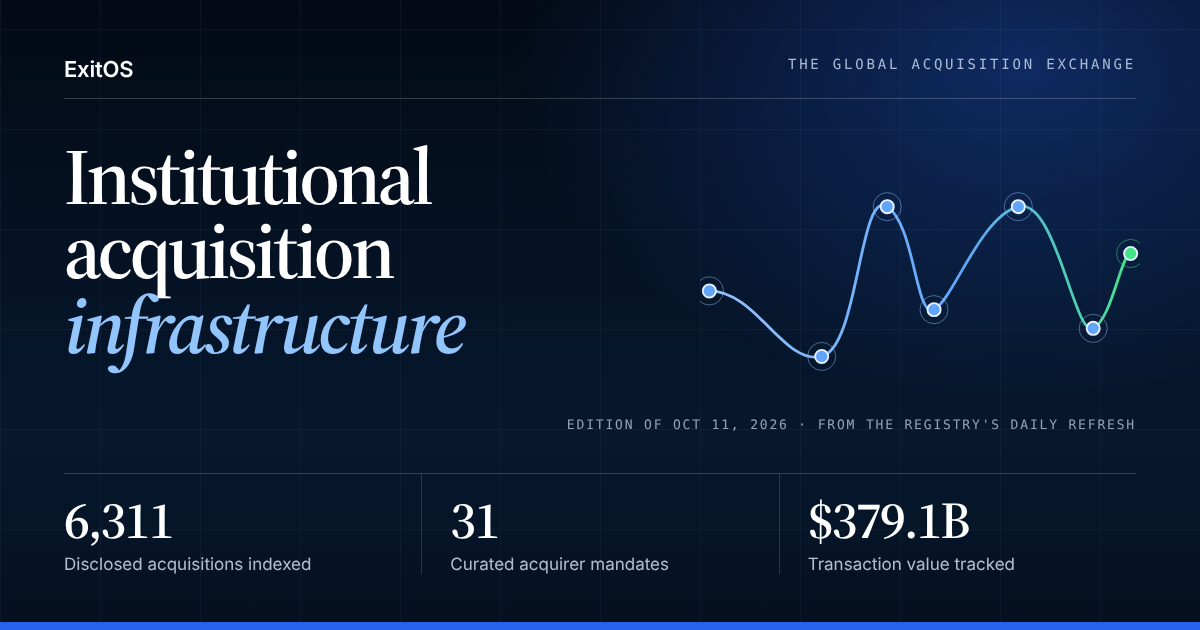
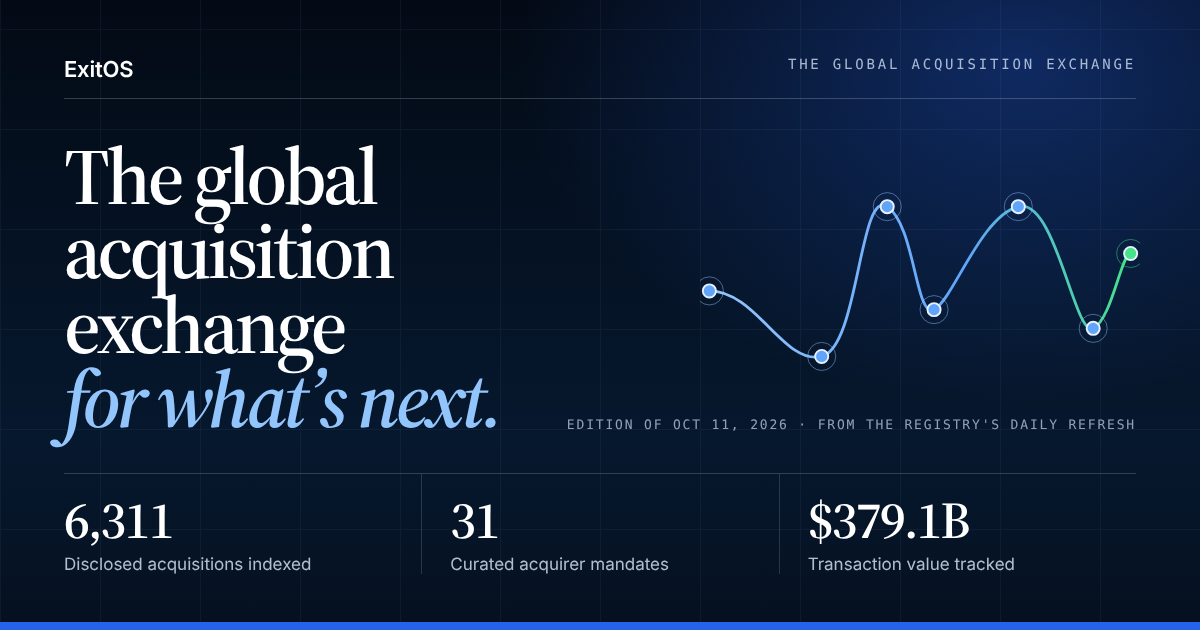
Homepage DD2: the index(2) hero and section 2, with our lifecycle graph in its box
Claude-Session: https://claude.ai/code/session_01VxxzepaXTwk9V2M77YMMLq

Changed region(s): [[0.0308, 0.4524, 0.4317, 0.7238], [0.0308, 0.2111, 0.37, 0.3619]]

diff --git a/services/exit-web/src/pages/Landing.tsx b/services/exit-web/src/pages/Landing.tsx
@@ -38,10 +38,6 @@ const WRAP = "mx-auto w-full max-w-[1480px] px-5 sm:px-8 lg:px-12";
 const H2 = "font-editorial text-[clamp(2.25rem,4.6vw,4.25rem)] font-semibold leading-[1.02] tracking-[-0.035em]";
 const BTN = "inline-flex items-center gap-5 px-5 py-3.5 text-[12px] font-semibold transition";
 
-// The hero headline in the editorial serif: an all-caps i18n string reads in
-// sentence case on offset lines, the last line in the accent italic.
-const heroLines = (s: string): string[] =>
-  s.split("\n").map((l, i) => (l === l.toUpperCase() ? (i === 0 ? l.charAt(0) + l.slice(1).toLowerCase() : l.toLowerCase()) : l));
 
 /** Chapter arrivals: each chapter's headline rises into place the first time it
  *  enters the view. Chapters already in view on load are shown at once; nothing
@@ -62,58 +58,89 @@ const Landing: React.FC = () => {
   useChapterReveal();
   const nav = useNavigate();
   const { t } = useI18n();
-  const h1 = heroLines(t("hero.h1"));
   return (
     <MarketingChrome active="home">
       <ChapterRail />
       <PhoneActionBar />
       <div className="relative">
         <SignatureLine />
-      {/* ===== 01 · HERO — the deal atlas (Z1/Z2, after the owner's index(8).html, on the homepage spec) ===== */}
-      <section id="ch-01" className="text-white" style={{ background: "linear-gradient(180deg,#030a15 0%,#06182E 70%,#05101f 100%)" }}>
-        <div className={`${WRAP} pt-8`}>
-          <div className="flex justify-between gap-6 border-b border-white/20 pb-3 font-mono text-[10px] uppercase tracking-[0.16em] text-blue-100/75">
-            <span>{t("hero.eyebrow")}</span><span className="flex items-center justify-end gap-2 text-right"><span aria-hidden className="h-1.5 w-1.5 shrink-0 rounded-full bg-emerald-400" />{t("hero.fresh", { d: MARKET_INDEX_FMT.asOf })}</span>
-          </div>
-          <div className="grid items-end gap-10 py-12 sm:py-14 lg:grid-cols-[minmax(0,1.4fr)_minmax(270px,0.6fr)] lg:gap-[6%] lg:py-16">
-            <h1 className="max-w-[12ch] font-editorial text-[clamp(3.4rem,8.4vw,8.8rem)] font-semibold leading-[0.9] tracking-[-0.05em]">
-              {h1.map((l, i) => i === h1.length - 1
-                ? <em key={i} className="block italic text-blue-300">{l}</em>
-                : <span key={i}>{l} </span>)}
+      {/* ===== 01 · HERO — after the owner's index(2).html (DD2), in the locked palette ===== */}
+      <section id="ch-01" className="relative isolate flex min-h-[min(880px,calc(100vh-72px))] flex-col overflow-hidden">
+        {/* the field: ivory on the left, deep navy on the right (stacked on phones) */}
+        <div aria-hidden className="absolute inset-0" style={{ background: "radial-gradient(ellipse 50% 70% at 82% 40%, rgba(37,99,235,0.22), transparent 70%), linear-gradient(180deg,#06182E 0%,#041120 70%,#030a15 100%)" }} />
+        <div aria-hidden className="absolute inset-0 hidden md:block" style={{ background: "linear-gradient(90deg, rgba(246,248,251,0.98) 0%, rgba(246,248,251,0.94) 28%, rgba(246,248,251,0.38) 45%, rgba(3,17,27,0.08) 61%, rgba(3,17,27,0.32) 100%)" }} />
+        <div aria-hidden className="absolute inset-0 md:hidden" style={{ background: "linear-gradient(180deg, rgba(246,248,251,0.99) 0%, rgba(246,248,251,0.96) 70%, rgba(246,248,251,0) 100%)" }} />
+        <div aria-hidden className="absolute inset-0" style={{ background: "linear-gradient(0deg, rgba(3,15,23,0.62), transparent 20%, transparent 75%, rgba(2,12,19,0.12))" }} />
+
+        <div className={`${WRAP} relative flex flex-1 items-center py-16 lg:py-20`}>
+          <div className="max-w-[640px] text-ink-900">
+            <div className="flex items-center gap-3 text-[10px] font-semibold uppercase tracking-[0.3em]"><span aria-hidden className="h-px w-7 bg-blue-600" />{t("hx.eyebrow")}</div>
+            <h1 className="mt-7 font-editorial text-[clamp(3.1rem,5.6vw,5.5rem)] font-semibold leading-[0.99] tracking-[-0.045em]">
+              {t("hx.h1")} <em className="italic text-blue-600">{t("hx.h1em")}</em>
             </h1>
-            <div className="max-w-[420px] border-l border-blue-300/60 pl-6">
-              <p className="font-editorial text-[20px] leading-snug text-blue-50/90">{t("hero.sub")}</p>
-              <p className="mt-3 text-[14.5px] leading-relaxed text-blue-100/75">{t("hero.body")}</p>
-              <div className="mt-7 flex flex-wrap gap-2.5">
-                <button onClick={() => nav("/console")} className={`${BTN} bg-white text-ink-900 hover:bg-blue-50`}>{t("nav.access")} <Arrow /></button>
-                <button onClick={() => nav("/pricing")} className={`${BTN} border border-white/60 text-white hover:bg-white hover:text-ink-900`}>{t("hero.deploy")} <span aria-hidden>↗</span></button>
-              </div>
+            <p className="mt-6 max-w-[440px] text-[15px] leading-[1.85] text-slate-700">{t("hx.body")}</p>
+            <div className="mt-8 flex flex-wrap gap-2.5">
+              <button onClick={() => nav("/platform")} className={`${BTN} bg-ink-900 text-white hover:bg-blue-700`}>{t("hx.explore")} <Arrow /></button>
+              <a href="#ch-04" className={`${BTN} border border-ink-900/70 text-ink-900 hover:bg-ink-900 hover:text-white md:border-ink-900/40 md:bg-white/30 md:backdrop-blur-sm`}>{t("bar.value")} <span aria-hidden>↓</span></a>
             </div>
           </div>
-          {/* 01 / discover the field — the sale process as a route across the market */}
-          <ExchangeMap dark interactive />
-          {/* the proof figures, as the homepage has always set them: serif numerals, a label, the source note */}
-          <div className="grid grid-cols-3">
-            {[
-              [MARKET_INDEX_FMT.events, t("ribbon.deals")],
-              [MARKET_FMT.buyers, t("ribbon.mandates")],
-              [HISTORY_FMT.disclosedValue, t("ribbon.value")],
-            ].map(([v, l], i) => (
-              <div key={l} className={`relative py-7 pr-3 ${i ? "border-l border-white/15 pl-3 sm:pl-6" : ""}`}>
-                <span aria-hidden className={`hero-rule absolute top-0 h-[2px] bg-blue-400 ${i ? "left-3 right-3 sm:left-6" : "left-0 right-3"}`} style={{ animationDelay: `${0.2 + i * 0.15}s` }} />
-                <div className="font-editorial text-[clamp(2.1rem,4.4vw,4rem)] font-semibold leading-none tracking-[-0.03em]"><CountUp value={v} /></div>
-                <div className="mt-2.5 text-[13px] text-blue-100/80">{l}<Note n={([1, 2, 3] as SourceId[])[i]} first dark /></div>
-              </div>
-            ))}
+        </div>
+        {/* the vertical note on the navy side */}
+        <div aria-hidden className="absolute bottom-40 right-[3.5%] hidden flex-col items-center gap-4 lg:flex">
+          <span className="font-mono text-[9.5px] uppercase tracking-[0.24em] text-blue-100/80" style={{ writingMode: "vertical-rl", transform: "rotate(180deg)" }}>{t("hx.note")}</span>
+          <span className="h-11 w-px bg-blue-300" />
+        </div>
+
+        {/* the capability strip */}
+        <ul aria-label={t("hx.strip")} className="relative grid border-t border-blue-600/70 bg-[#030a15]/95 text-white sm:grid-cols-2 lg:grid-cols-5">
+          {([["◎", 1], ["♧", 2], ["↗", 3], ["▤", 4], ["⌁", 5]] as const).map(([icon, k], i) => (
+            <li key={k} className={`flex gap-4 px-5 py-6 sm:px-8 lg:px-6 ${i ? "border-t border-white/10 sm:border-t-0 lg:border-l" : ""} ${i % 2 ? "sm:border-l" : ""} sm:border-white/10 lg:first:pl-[max(1.5rem,calc((100vw-1480px)/2+3rem))]`}>
+              <span aria-hidden className="font-editorial text-[26px] leading-none text-blue-300">{icon}</span>
+              <span>
+                <span className="block font-editorial text-[17px] font-semibold">{t(`hx.s${k}`)}</span>
+                <span className="mt-1.5 block max-w-[200px] text-[12px] leading-relaxed text-blue-100/75">{t(`hx.s${k}d`)}</span>
+              </span>
+            </li>
+          ))}
+        </ul>
+      </section>
+
+      {/* ===== 02 · INTELLIGENCE MEETS OPPORTUNITY — index(2) section 2, with our lifecycle graph in its box (DD2) ===== */}
+      <section id="ch-02" aria-labelledby="s2-h" className="border-b border-slate-200 bg-[#f6f8fb] text-ink-900">
+        <div className={`${WRAP} grid items-center gap-12 py-20 sm:py-24 lg:grid-cols-[0.85fr_1.15fr] lg:gap-[clamp(40px,5vw,84px)] lg:py-28`}>
+          <div>
+            <Chapter n="02">{t("s2.kicker")}</Chapter>
+            <h2 id="s2-h" className="rv-h mt-6 font-editorial text-[clamp(2.6rem,4.2vw,4rem)] font-semibold leading-[1.04] tracking-[-0.035em]">{t("s2.h2")} <em className="italic text-blue-600">{t("s2.h2em")}</em></h2>
+            <p className="mt-6 max-w-[460px] text-[15px] leading-[1.85] text-slate-600">{t("s2.body")}</p>
+            {/* the proof figures, with their notes */}
+            <div className="mt-9 grid grid-cols-3 border-t border-ink-900">
+              {[
+                [MARKET_INDEX_FMT.events, t("ribbon.deals")],
+                [MARKET_FMT.buyers, t("ribbon.mandates")],
+                [HISTORY_FMT.disclosedValue, t("ribbon.value")],
+              ].map(([v, l], i) => (
+                <div key={l} className={`relative pr-3 pt-5 ${i ? "border-l border-slate-300 pl-3 sm:pl-5" : ""}`}>
+                  <span aria-hidden className={`hero-rule absolute -top-px h-[2px] bg-blue-600 ${i ? "left-3 right-3 sm:left-5" : "left-0 right-3"}`} style={{ animationDelay: `${0.2 + i * 0.15}s` }} />
+                  <div className="font-editorial text-[clamp(1.7rem,2.6vw,2.5rem)] font-semibold leading-none tracking-[-0.03em]"><CountUp value={v} /></div>
+                  <div className="mt-2 text-[12.5px] text-slate-600">{l}<Note n={([1, 2, 3] as SourceId[])[i]} first /></div>
+                </div>
+              ))}
+            </div>
+            <p data-edition className="mt-5 flex items-center gap-2 font-mono text-[10px] uppercase tracking-[0.14em] text-slate-600"><span aria-hidden className="h-1.5 w-1.5 shrink-0 rounded-full bg-emerald-500" />{t("hero.fresh", { d: MARKET_INDEX_FMT.asOf })}</p>
+            <Link to="/platform" className="mt-8 inline-flex items-center gap-3 border-b border-blue-600 pb-2.5 text-[13px] font-semibold text-ink-900 transition hover:text-blue-700 focus-visible:outline-none focus-visible:ring-2 focus-visible:ring-blue-600">{t("s2.link")} <span aria-hidden>→</span></Link>
+          </div>
+          {/* the right-hand box: the sale process, stage by stage */}
+          <div className="min-w-0 shadow-[0_40px_80px_-40px_rgba(6,24,46,0.6)]">
+            <ExchangeMap dark interactive compact />
           </div>
         </div>
       </section>
 
-      {/* ===== 02 · THE EXCHANGE — the screen installed in the trading hall ===== */}
-      <section id="ch-02" aria-labelledby="hall-h">
+      {/* ===== 03 · THE EXCHANGE — the board as the instrument ===== */}
+      <section id="ch-03" aria-labelledby="hall-h">
         <Instrument head={
           <div className={`${WRAP} relative pb-16 pt-20 text-white`}>
-            <Chapter n="02" dark>{t("hall.eyebrow")}</Chapter>
+            <Chapter n="03" dark>{t("hall.eyebrow")}</Chapter>
             <h2 id="hall-h" className="rv-h mt-5 max-w-[18ch] font-editorial text-[clamp(2.6rem,5vw,5rem)] font-semibold leading-[0.95] tracking-[-0.04em]">{t("hall.h2")} <em className="italic text-blue-300">{t("hall.h2em")}</em></h2>
           </div>
         }>
@@ -157,13 +184,13 @@ const Landing: React.FC = () => {
         `}</style>
       </section>
 
-      {/* ===== 03 · VALUE YOUR COMPANY — the working product moment ===== */}
-      <QuickValue />
+      {/* ===== 04 · VALUE YOUR COMPANY — the working product moment ===== */}
+      <QuickValue n="04" />
 
-      {/* ===== 04 · THE THESIS — one statement, set like a front page ===== */}
-      <section id="ch-04" className="border-b border-slate-200 bg-[#f6f8fb]">
+      {/* ===== 05 · THE THESIS — one statement, set like a front page ===== */}
+      <section id="ch-05" className="border-b border-slate-200 bg-[#f6f8fb]">
         <div className={`${WRAP} py-16 sm:py-20 lg:py-24`}>
-          <Chapter n="04">{t("loss.eyebrow")}</Chapter>
+          <Chapter n="05">{t("loss.eyebrow")}</Chapter>
           <h2 className="rv-h mt-6 max-w-[16ch] font-editorial text-[clamp(3rem,7.4vw,7.6rem)] font-semibold leading-[0.92] tracking-[-0.05em] text-ink-900"><Editorial text={t("loss.h2")} /></h2>
           <div className="mt-12 grid gap-10 border-t-4 border-double border-ink-900 pt-8 lg:grid-cols-[minmax(0,0.9fr)_minmax(0,1.6fr)] lg:gap-[5vw]">
             <p className="max-w-md text-[16px] leading-relaxed text-ink-800 first-letter:float-left first-letter:mr-2 first-letter:mt-1 first-letter:font-editorial first-letter:text-[4.2rem] first-letter:font-semibold first-letter:leading-[0.8] first-letter:text-blue-700">{t("loss.body", { p: DEAL_INTEL_FMT.medianPremium, d: DEAL_INTEL_FMT.medianClose })}<Note n={4} first /></p>
@@ -192,11 +219,11 @@ const Landing: React.FC = () => {
         </div>
       </section>
 
-      {/* ===== 05 · THE TRANSACTION RECORD — the ledger ===== */}
-      <section id="ch-05" className="border-b border-slate-200 bg-white">
+      {/* ===== 06 · THE TRANSACTION RECORD — the ledger ===== */}
+      <section id="ch-06" className="border-b border-slate-200 bg-white">
         <div className={`${WRAP} py-14 sm:py-20 lg:py-24`}>
           <div>
-            <Chapter n="05">{t("rec.eyebrow")}</Chapter>
+            <Chapter n="06">{t("rec.eyebrow")}</Chapter>
             <div className="mt-6 flex flex-wrap items-end justify-between gap-6">
               <h2 className={`rv-h ${H2} max-w-[20ch] text-ink-900`}><Editorial text={t("rec.h2")} /></h2>
               <p className="max-w-xs text-[13px] leading-relaxed text-slate-600">{t("rec.body")}</p>
@@ -271,11 +298,11 @@ const Landing: React.FC = () => {
         </div>
       </section>
 
-      {/* ===== 06 · THE MODULES — the site's own catalogue, live engine stats (Z3) ===== */}
-      <section id="ch-06" aria-labelledby="mods-h" className="border-b border-slate-200 bg-white text-ink-900">
+      {/* ===== 07 · THE MODULES — the site's own catalogue, live engine stats (Z3) ===== */}
+      <section id="ch-07" aria-labelledby="mods-h" className="border-b border-slate-200 bg-white text-ink-900">
         <div className={`${WRAP} py-16 sm:py-20 lg:py-24`}>
           <div className="border-t-4 border-double border-ink-900 pt-8">
-            <Chapter n="06">{t("mods.eyebrow")}</Chapter>
+            <Chapter n="07">{t("mods.eyebrow")}</Chapter>
             <h2 id="mods-h" className="rv-h mt-6 max-w-[22ch] font-editorial text-[clamp(2.75rem,5.8vw,5.6rem)] font-semibold leading-[0.94] tracking-[-0.045em]"><Editorial text={t("mods.h2")} /></h2>
           </div>
           <div className="mt-12 border-t border-ink-900">
@@ -303,12 +330,12 @@ const Landing: React.FC = () => {
       {/* real client proof — renders nothing until lib/proof.ts holds entries (CC4, gate G2) */}
       <ProofSection />
 
-      {/* ===== 07 · QUESTIONS — what founders ask first, answered from the Pricing and Platform pages ===== */}
-      <section id="ch-07" aria-labelledby="faq-h" className="border-b border-slate-200 bg-[#f6f8fb] text-ink-900">
+      {/* ===== 08 · QUESTIONS — what founders ask first, answered from the Pricing and Platform pages ===== */}
+      <section id="ch-08" aria-labelledby="faq-h" className="border-b border-slate-200 bg-[#f6f8fb] text-ink-900">
         <div className={`${WRAP} py-16 sm:py-20 lg:py-24`}>
           <div className="grid gap-10 lg:grid-cols-[0.8fr_1.2fr] lg:gap-[6vw]">
             <div className="border-t-4 border-double border-ink-900 pt-8">
-              <Chapter n="07">{t("faq.eyebrow")}</Chapter>
+              <Chapter n="08">{t("faq.eyebrow")}</Chapter>
               <h2 id="faq-h" className="rv-h mt-6 font-editorial text-[clamp(2.75rem,5.2vw,5rem)] font-semibold leading-[0.94] tracking-[-0.045em]"><Editorial text={t("faq.h2")} /></h2>
               <div className="mt-10 rounded-[4px] p-6 text-white" style={{ background: "linear-gradient(135deg,#06182E 0%,#0A1F3A 60%,#0B2547 100%)" }}>
                 <p className="font-editorial text-[1.35rem] font-semibold leading-snug">{t("faq.more")}</p>
@@ -331,8 +358,8 @@ const Landing: React.FC = () => {
         </div>
       </section>
 
-      {/* ===== 08 · THE NEXT MOVE — the back page ===== */}
-      <section id="ch-08" className="relative overflow-hidden text-white" style={{ background: "linear-gradient(180deg,#05101f 0%,#06182E 55%,#030a15 100%)" }}>
+      {/* ===== 09 · THE NEXT MOVE — the back page ===== */}
+      <section id="ch-09" className="relative overflow-hidden text-white" style={{ background: "linear-gradient(180deg,#05101f 0%,#06182E 55%,#030a15 100%)" }}>
         {/* a quiet film of a meeting under a navy veil (placeholder footage, pre-launch gate G1) */}
         <AmbientVideo src="/media/boardroom-loop.mp4" webm="/media/boardroom-loop.webm" poster="/media/boardroom-poster.jpg" className="pointer-events-none absolute inset-0 h-full w-full object-cover opacity-[0.38] mix-blend-luminosity" />
         <div aria-hidden className="pointer-events-none absolute inset-0" style={{ background: "linear-gradient(180deg,#05101f 0%,rgba(6,24,46,0.62) 28%,rgba(6,24,46,0.72) 62%,#030a15 100%), linear-gradient(90deg,rgba(3,10,21,0.85) 0%,rgba(3,10,21,0.35) 55%,rgba(3,10,21,0.6) 100%)" }} />
@@ -340,7 +367,7 @@ const Landing: React.FC = () => {
         <div aria-hidden className="pointer-events-none absolute left-1/2 top-0 h-[70%] w-[80%] -translate-x-1/2 rounded-[50%] opacity-40 blur-[110px]" style={{ background: "radial-gradient(ellipse at center, rgba(56,130,246,0.55), transparent 70%)" }} />
         <div className={`${WRAP} relative py-20 sm:py-24 lg:py-32`}>
           <div className="border-t-4 border-double border-white/50 pt-8">
-            <Chapter n="08" dark>{t("cta.eyebrow")}</Chapter>
+            <Chapter n="09" dark>{t("cta.eyebrow")}</Chapter>
             <div className="mt-6 grid items-end gap-10 lg:grid-cols-[1fr_auto]">
               <h2 className="rv-h font-editorial text-[clamp(3rem,7vw,7rem)] font-semibold leading-[0.94] tracking-[-0.05em] text-white"><Editorial text={t("cta.h2")} dark /></h2>
               <div className="flex flex-wrap gap-2.5 lg:flex-col lg:items-stretch">

diff --git a/services/exit-web/src/lib/i18n.tsx b/services/exit-web/src/lib/i18n.tsx
@@ -129,6 +129,28 @@ const en: Dict = {
   "hall.eyebrow": "The exchange",
   "hall.h2": "The whole market,",
   "hall.h2em": "in one room.",
+  "hx.eyebrow": "Intelligence · Opportunities · Execution",
+  "hx.h1": "The global acquisition exchange",
+  "hx.h1em": "for what's next.",
+  "hx.body": "Real intelligence. Real counterparties. Real outcomes. ExitOS connects business value, global buyers and transaction execution in one integrated platform.",
+  "hx.explore": "Explore the platform",
+  "hx.note": "From insight to opportunity to outcome",
+  "hx.strip": "Platform capabilities",
+  "hx.s1": "Discover opportunities",
+  "hx.s1d": "Access acquisition opportunities across sectors.",
+  "hx.s2": "Find the right buyers",
+  "hx.s2d": "Buyer intelligence and strategic matching.",
+  "hx.s3": "Validate with evidence",
+  "hx.s3d": "Market data, comparables and sourced records.",
+  "hx.s4": "Prepare with confidence",
+  "hx.s4d": "Valuation, readiness and transaction strategy.",
+  "hx.s5": "Execute successfully",
+  "hx.s5d": "Data rooms, negotiation and closing workflow.",
+  "s2.kicker": "A more efficient acquisition ecosystem",
+  "s2.h2": "Intelligence meets",
+  "s2.h2em": "opportunity.",
+  "s2.body": "ExitOS brings business owners, investors and advisors together with the data, tools and counterparties needed to pursue exceptional outcomes. One connected environment, from first signal to final signature.",
+  "s2.link": "Learn how it works",
   "proof.eyebrow": "In confidence",
   "bar.label": "Quick actions",
   "bar.value": "Value my company",
@@ -309,6 +331,28 @@ const fr: Dict = {
   "hall.eyebrow": "La bourse",
   "hall.h2": "Tout le marché,",
   "hall.h2em": "dans une seule salle.",
+  "hx.eyebrow": "Intelligence · Opportunités · Exécution",
+  "hx.h1": "La bourse mondiale des acquisitions",
+  "hx.h1em": "pour la suite.",
+  "hx.body": "Une intelligence réelle. De vraies contreparties. De vrais résultats. ExitOS relie la valeur de l'entreprise, les acquéreurs du monde entier et l'exécution des transactions sur une seule plateforme intégrée.",
+  "hx.explore": "Découvrir la plateforme",
+  "hx.note": "De l'analyse à l'opportunité, puis au résultat",
+  "hx.strip": "Capacités de la plateforme",
+  "hx.s1": "Découvrir des opportunités",
+  "hx.s1d": "Accéder à des opportunités d'acquisition dans tous les secteurs.",
+  "hx.s2": "Trouver les bons acquéreurs",
+  "hx.s2d": "Intelligence acheteurs et rapprochement stratégique.",
+  "hx.s3": "Valider par les faits",
+  "hx.s3d": "Données de marché, comparables et données sourcées.",
+  "hx.s4": "Se préparer en confiance",
+  "hx.s4d": "Valorisation, préparation et stratégie de transaction.",
+  "hx.s5": "Exécuter avec succès",
+  "hx.s5d": "Data rooms, négociation et processus de closing.",
+  "s2.kicker": "Un écosystème d'acquisition plus efficace",
+  "s2.h2": "L'intelligence rencontre",
+  "s2.h2em": "l'opportunité.",
+  "s2.body": "ExitOS réunit dirigeants, investisseurs et conseils avec les données, les outils et les contreparties nécessaires pour viser des résultats exceptionnels. Un environnement connecté, du premier signal à la signature finale.",
+  "s2.link": "Voir comment ça marche",
   "proof.eyebrow": "En confiance",
   "bar.label": "Actions rapides",
   "bar.value": "Valoriser mon entreprise",
@@ -488,6 +532,28 @@ const es: Dict = {
   "hall.eyebrow": "La bolsa",
   "hall.h2": "Todo el mercado,",
   "hall.h2em": "en una sola sala.",
+  "hx.eyebrow": "Inteligencia · Oportunidades · Ejecución",
+  "hx.h1": "La bolsa global de adquisiciones",
+  "hx.h1em": "para lo que viene.",
+  "hx.body": "Inteligencia real. Contrapartes reales. Resultados reales. ExitOS conecta el valor de la empresa, los compradores globales y la ejecución de la operación en una sola plataforma integrada.",
+  "hx.explore": "Explorar la plataforma",
+  "hx.note": "Del análisis a la oportunidad y al resultado",
+  "hx.strip": "Capacidades de la plataforma",
+  "hx.s1": "Descubrir oportunidades",
+  "hx.s1d": "Acceder a oportunidades de adquisición en todos los sectores.",
+  "hx.s2": "Encontrar a los compradores adecuados",
+  "hx.s2d": "Inteligencia de compradores y emparejamiento estratégico.",
+  "hx.s3": "Validar con evidencia",
+  "hx.s3d": "Datos de mercado, comparables y registros con fuente.",
+  "hx.s4": "Prepararse con confianza",
+  "hx.s4d": "Valoración, preparación y estrategia de operación.",
+  "hx.s5": "Ejecutar con éxito",
+  "hx.s5d": "Salas de datos, negociación y flujo de cierre.",
+  "s2.kicker": "Un ecosistema de adquisiciones más eficiente",
+  "s2.h2": "La inteligencia se encuentra con",
+  "s2.h2em": "la oportunidad.",
+  "s2.body": "ExitOS reúne a propietarios, inversores y asesores con los datos, las herramientas y las contrapartes necesarios para lograr resultados excepcionales. Un entorno conectado, de la primera señal a la firma final.",
+  "s2.link": "Ver cómo funciona",
   "proof.eyebrow": "En confianza",
   "bar.label": "Acciones rápidas",
   "bar.value": "Valorar mi empresa",

diff --git a/services/exit-web/src/components/PhoneActionBar.tsx b/services/exit-web/src/components/PhoneActionBar.tsx
@@ -3,7 +3,7 @@ import { useI18n } from "../lib/i18n";
 
 // The phone action bar (HOMEPAGE.md CC3): once the hero has scrolled away, the
 // one action the header does not already carry stays a tap away at the foot of
-// the screen: value your company (jumps to chapter 03). It steps aside again
+// the screen: value your company (jumps to chapter 04). It steps aside again
 // when the closing chapter comes into view.
 // Phones only; hidden on short landscape screens; clears the home indicator.
 
@@ -13,7 +13,7 @@ const PhoneActionBar: React.FC = () => {
   useEffect(() => {
     let raf = 0;
     const read = (): void => { cancelAnimationFrame(raf); raf = requestAnimationFrame(() => {
-      const hero = document.getElementById("ch-01"), end = document.getElementById("ch-08");
+      const hero = document.getElementById("ch-01"), end = document.getElementById("ch-09");
       if (!hero || !end) return;
       setShow(hero.getBoundingClientRect().bottom < 0 && end.getBoundingClientRect().top > innerHeight);
     }); };
@@ -24,7 +24,7 @@ const PhoneActionBar: React.FC = () => {
     <nav aria-label={t("bar.label")}
       className={`fixed inset-x-0 bottom-0 z-40 border-t border-white/10 bg-[#06182E]/95 px-4 pt-3 backdrop-blur transition-[transform,visibility] duration-300 motion-reduce:transition-none sm:hidden [@media(max-height:500px)]:hidden ${show ? "visible translate-y-0" : "invisible translate-y-full"}`}
       style={{ paddingBottom: "calc(0.75rem + env(safe-area-inset-bottom))" }}>
-      <a href="#ch-03" className="flex items-center justify-between bg-white px-4 py-3.5 text-[14px] font-semibold text-ink-900 focus-visible:outline-none focus-visible:ring-2 focus-visible:ring-blue-300">
+      <a href="#ch-04" className="flex items-center justify-between bg-white px-4 py-3.5 text-[14px] font-semibold text-ink-900 focus-visible:outline-none focus-visible:ring-2 focus-visible:ring-blue-300">
         <span>{t("bar.value")}</span><span className="font-mono text-[11px] font-medium uppercase tracking-[0.14em] text-blue-700">{t("bar.time")} <span aria-hidden>→</span></span>
       </a>
     </nav>

diff --git a/services/exit-web/src/components/ChapterRail.tsx b/services/exit-web/src/components/ChapterRail.tsx
@@ -3,11 +3,11 @@ import { useI18n } from "../lib/i18n";
 
 // The chapter index: a slim rail at the left edge on wide screens. The chapter
 // in view is marked; each number jumps to its chapter, and its name shows on
-// hover or focus. Reads the sections by id (ch-01 … ch-08).
+// hover or focus. Reads the sections by id (ch-01 … ch-09).
 
 const CHAPTERS: ReadonlyArray<[string, string]> = [
-  ["01", "hero.eyebrow"], ["02", "hall.eyebrow"], ["03", "qv.eyebrow"], ["04", "loss.eyebrow"],
-  ["05", "rec.eyebrow"], ["06", "mods.eyebrow"], ["07", "faq.eyebrow"], ["08", "cta.eyebrow"],
+  ["01", "hx.eyebrow"], ["02", "s2.kicker"], ["03", "hall.eyebrow"], ["04", "qv.eyebrow"], ["05", "loss.eyebrow"],
+  ["06", "rec.eyebrow"], ["07", "mods.eyebrow"], ["08", "faq.eyebrow"], ["09", "cta.eyebrow"],
 ];
 
 const ChapterRail: React.FC = () => {

diff --git a/services/exit-web/src/components/SignatureLine.tsx b/services/exit-web/src/components/SignatureLine.tsx
@@ -1,11 +1,11 @@
 import React, { useEffect, useRef, useState } from "react";
 
 // THE SIGNATURE LINE — the route of a sale, run through the whole page. A fine
-// line in the right-hand margin joins the chapters (ch-01 … ch-08) and draws
+// line in the right-hand margin joins the chapters (ch-01 … ch-09) and draws
 // itself as you read; each chapter is a node that fills once passed. Wide
 // screens only; drawn complete when the reader prefers reduced motion.
 
-const IDS = ["01", "02", "03", "04", "05", "06", "07", "08"];
+const IDS = ["01", "02", "03", "04", "05", "06", "07", "08", "09"];
 
 const SignatureLine: React.FC = () => {
   const box = useRef<HTMLDivElement>(null);

diff --git a/services/exit-web/src/pages/marketing-inventory.test.tsx b/services/exit-web/src/pages/marketing-inventory.test.tsx
@@ -18,7 +18,7 @@ const text = (C: React.FC): string =>
     .replace(/<[^>]+>/g, " ").replace(/&amp;/g, "&").replace(/&#x27;|&#39;/g, "'").replace(/\s+/g, " ");
 
 const BLOCKS: Record<string, string> = {
-  "hero headline": "Institutional acquisition infrastructure",
+  "hero headline": "The global acquisition exchange", // owner's index(2) hero (HOMEPAGE.md DD2)
   "command board": "ExitOS Acquisition Exchange",
   "proof ribbon": "Disclosed acquisitions indexed",
   "trust strip": "Curated Acquirer Network",
